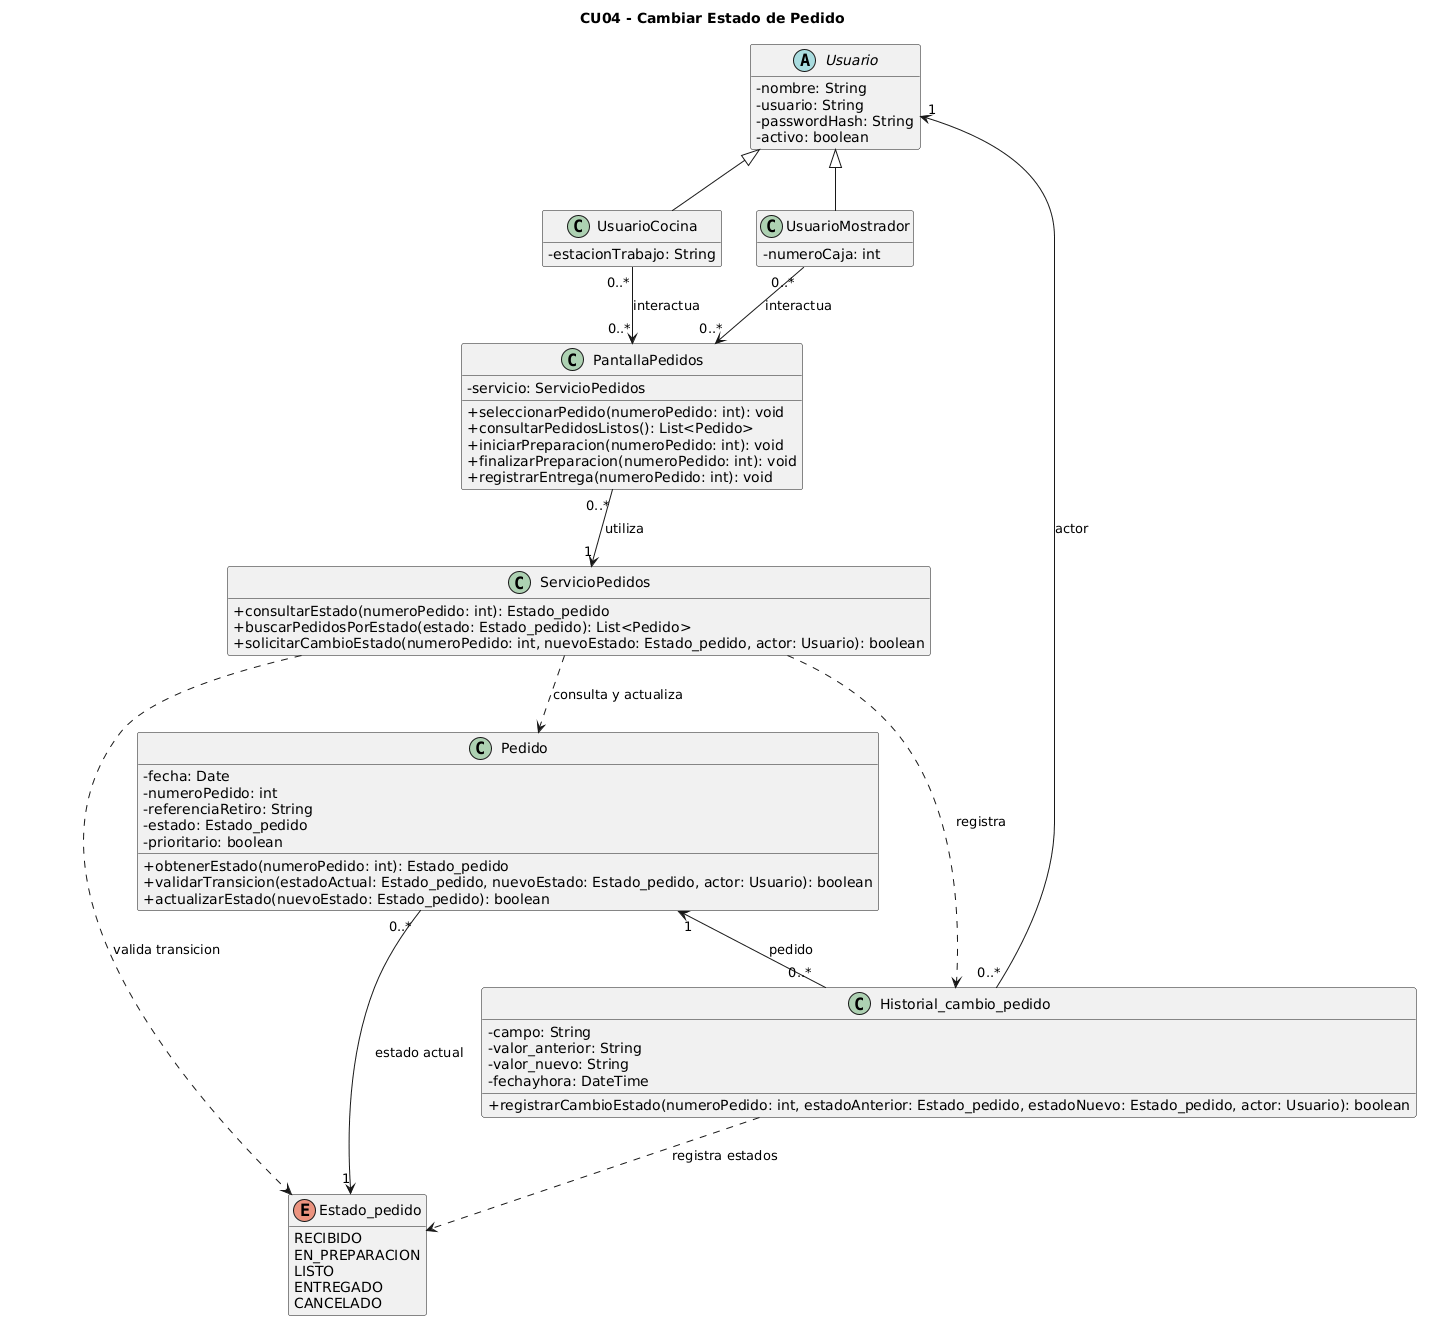
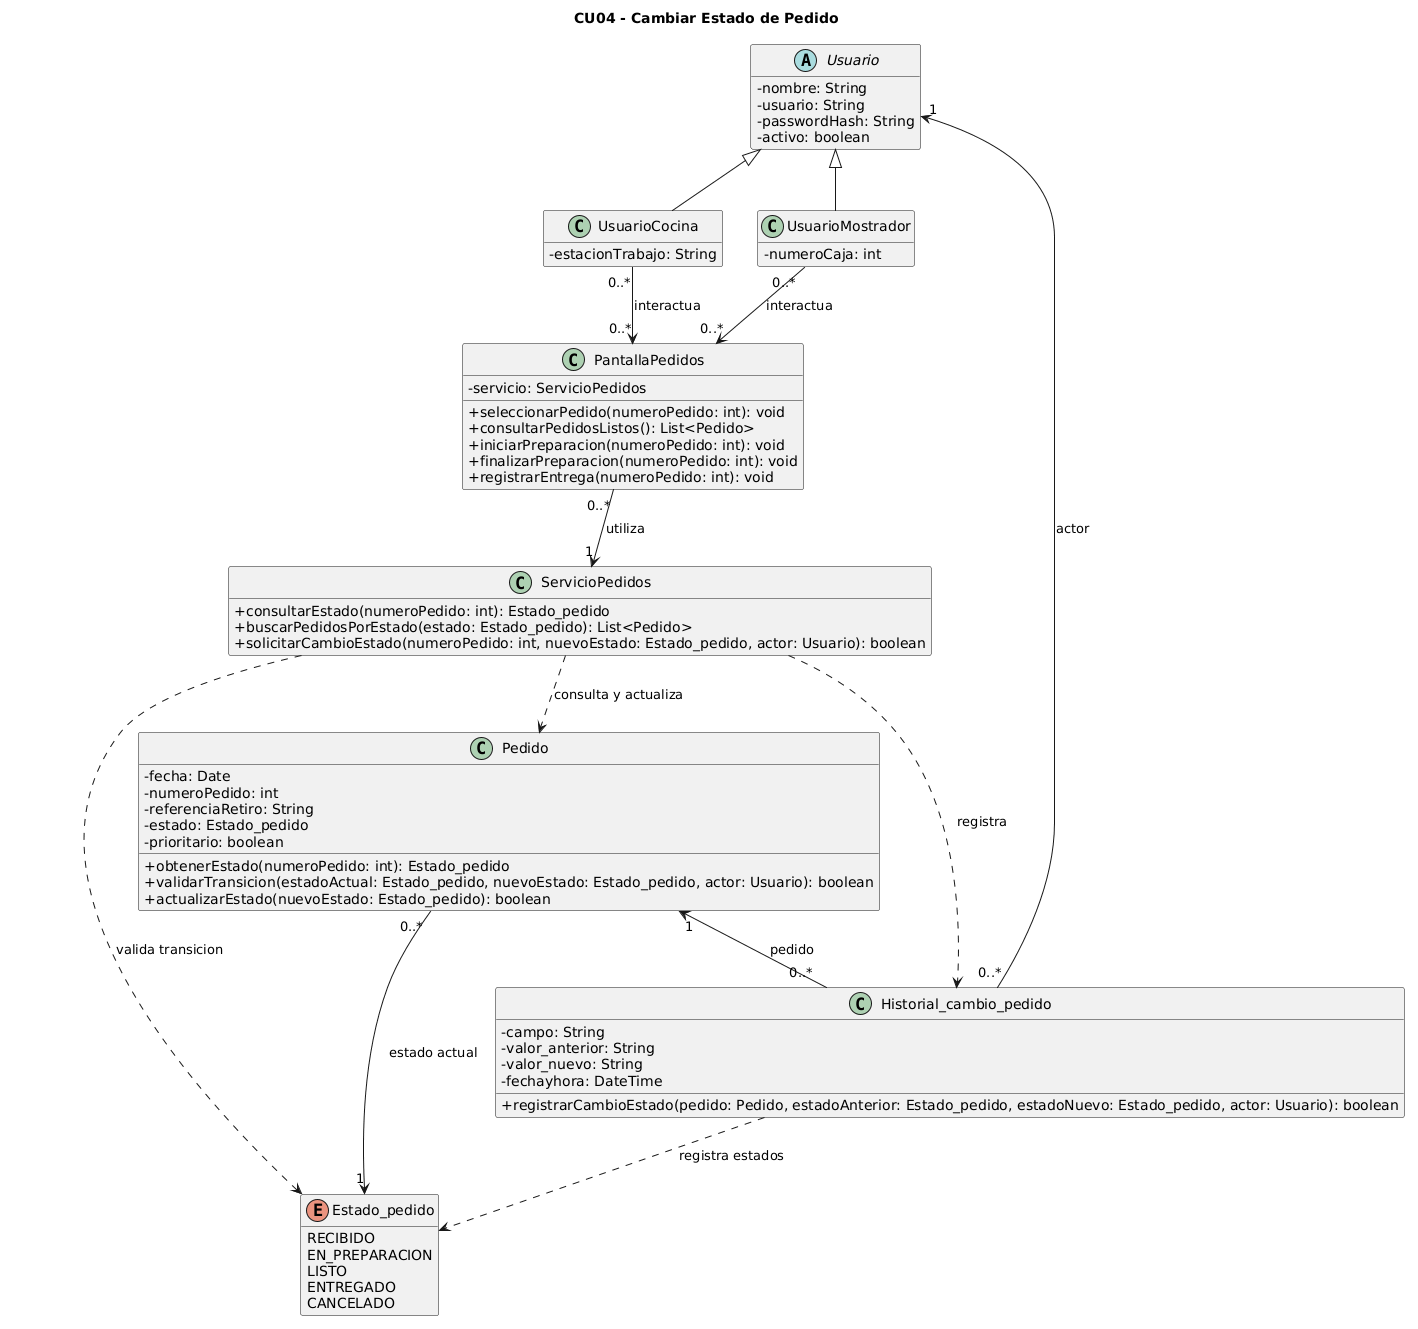
fix: unifico la firma de registrarCambioEstado y registrarCambioPedido entre CU2 y CU4

diff --git a/anexos/analisis-funcional/04-caso-de-uso-cambiar-estado-de-pedido.md b/anexos/analisis-funcional/04-caso-de-uso-cambiar-estado-de-pedido.md
@@ -75,7 +75,7 @@
 - `iniciarPreparacion(numeroPedido)`, `finalizarPreparacion(numeroPedido)` y `registrarEntrega(numeroPedido)` → expresan la acción del actor correspondiente; la pantalla solicita `solicitarCambioEstado(numeroPedido, nuevoEstado, actor)`.
 - `validarTransicion(estadoActual, nuevoEstado, actor)` → comprueba la validez de la transición y la autorización del actor.
 - `actualizarEstado(nuevoEstado)` → cambia el estado cuando la transición es válida.
-- `registrarCambioEstado(numeroPedido, estadoAnterior, estadoNuevo, actor)` → registra el cambio en `Historial_cambio_pedido`.
+- `registrarCambioEstado(pedido, estadoAnterior, estadoNuevo, actor)` → registra el cambio en `Historial_cambio_pedido`.
 - `motivoRechazo` y `rechazoTransicion` → devuelven el rechazo sin modificar el estado cuando la solicitud no es válida o autorizada.
 
 **Objetos temporales destruidos:** no se representan objetos temporales ni mensajes de destrucción en esta secuencia.
@@ -151,7 +151,7 @@ SI la transición es válida y el actor está autorizado
     // Pedido actualiza su único estado vigente.
     Pedido.actualizarEstado(nuevoEstado)
     // El servicio registra los valores anterior y nuevo junto con el actor.
-    Historial_cambio_pedido.registrarCambioEstado(numeroPedido, estadoActual, nuevoEstado, actorSolicitante)
+    Historial_cambio_pedido.registrarCambioEstado(pedido, estadoActual, nuevoEstado, actorSolicitante)
     Retornar "Cambio confirmado"
 SINO SI la transición no está permitida
     // Se informa el rechazo y el pedido conserva el estado anterior.
